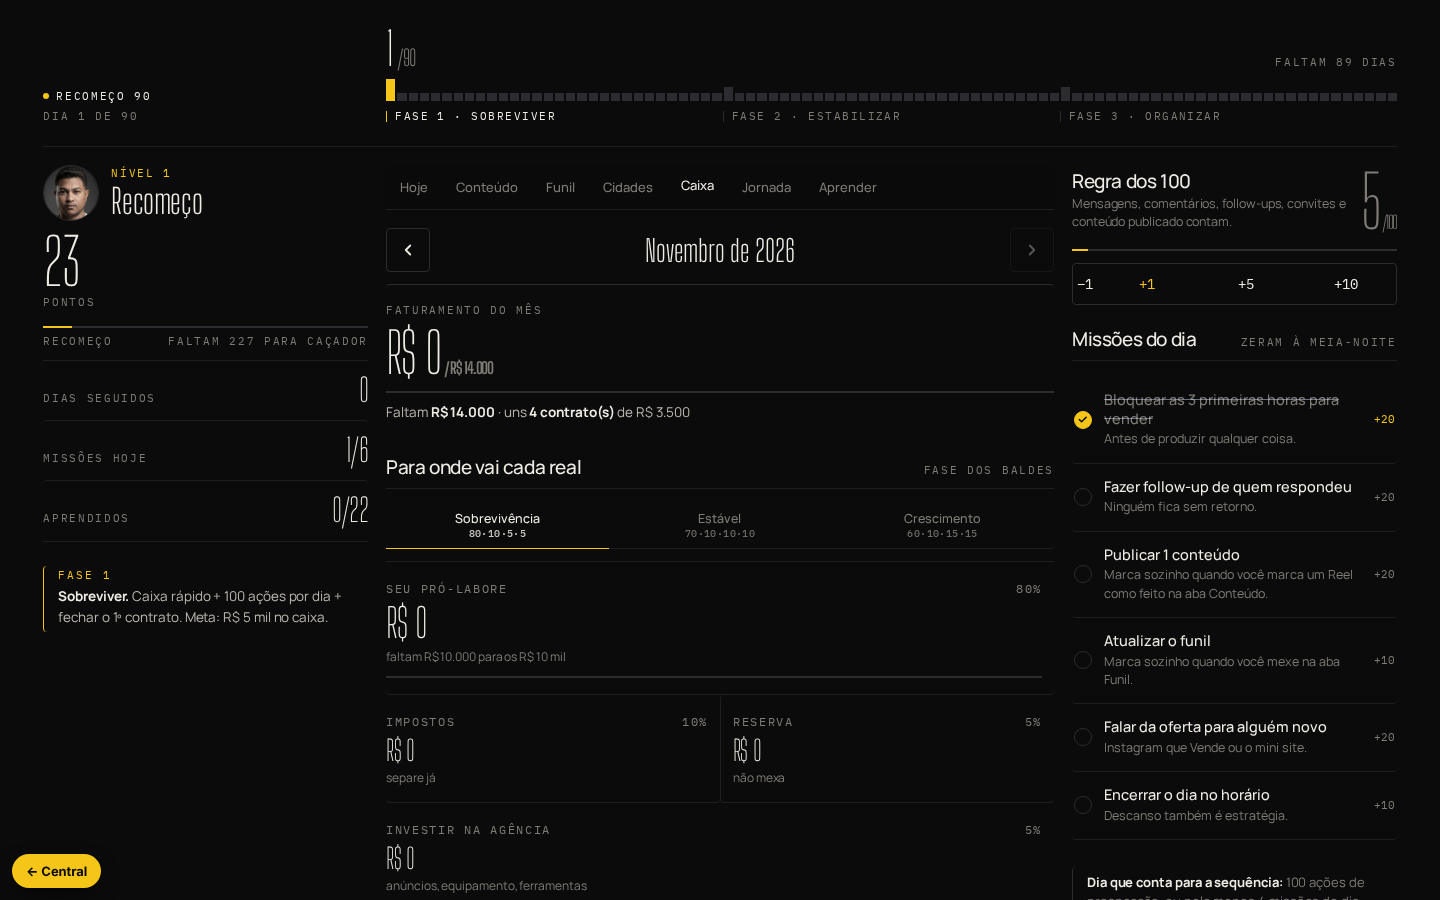
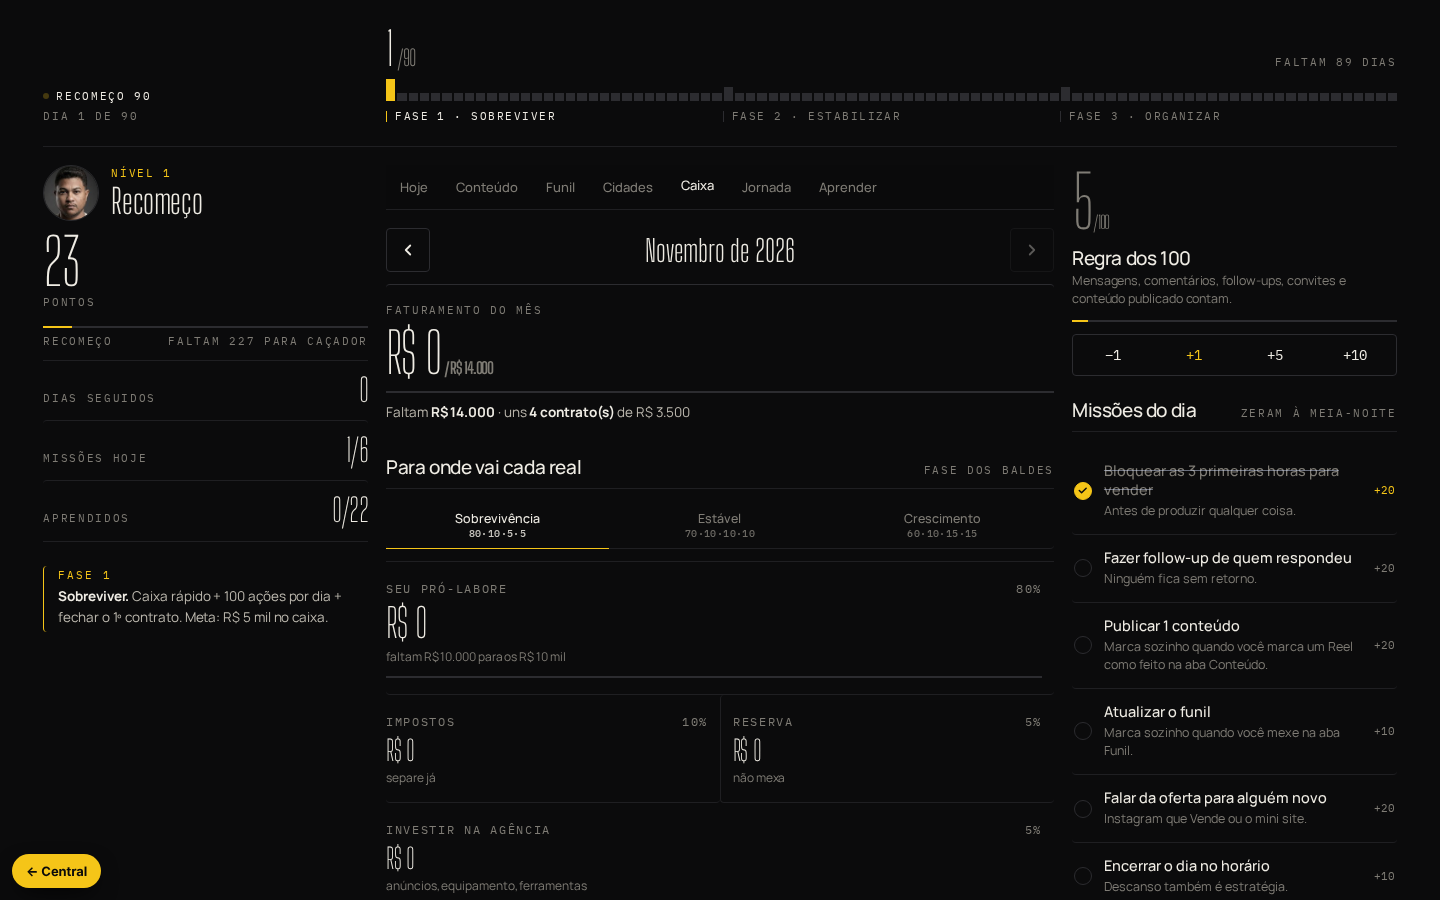
Em andamento: Recomeço 90 v2
Claude-Session: https://claude.ai/code/session_01LjGnVGVq7Mu7ubhZunrrM6

diff --git a/agencia/sistema-clientes/prototipo/tema-recomeco.css b/agencia/sistema-clientes/prototipo/tema-recomeco.css
@@ -234,3 +234,6 @@ body{font-size:14.5px;letter-spacing:-.005em}
   .r9-tl-h b{font-size:60px}
 }
 @media (prefers-reduced-motion:reduce){.r9-ticks i,.tabs button::after,.m{transition:none!important}}
+.counter .btns{grid-template-columns:repeat(4,1fr)!important}
+.counter .btns button{text-align:center}
+@media (min-width:980px){.r9-dir .counter-top{flex-direction:column-reverse;align-items:flex-start!important}}
